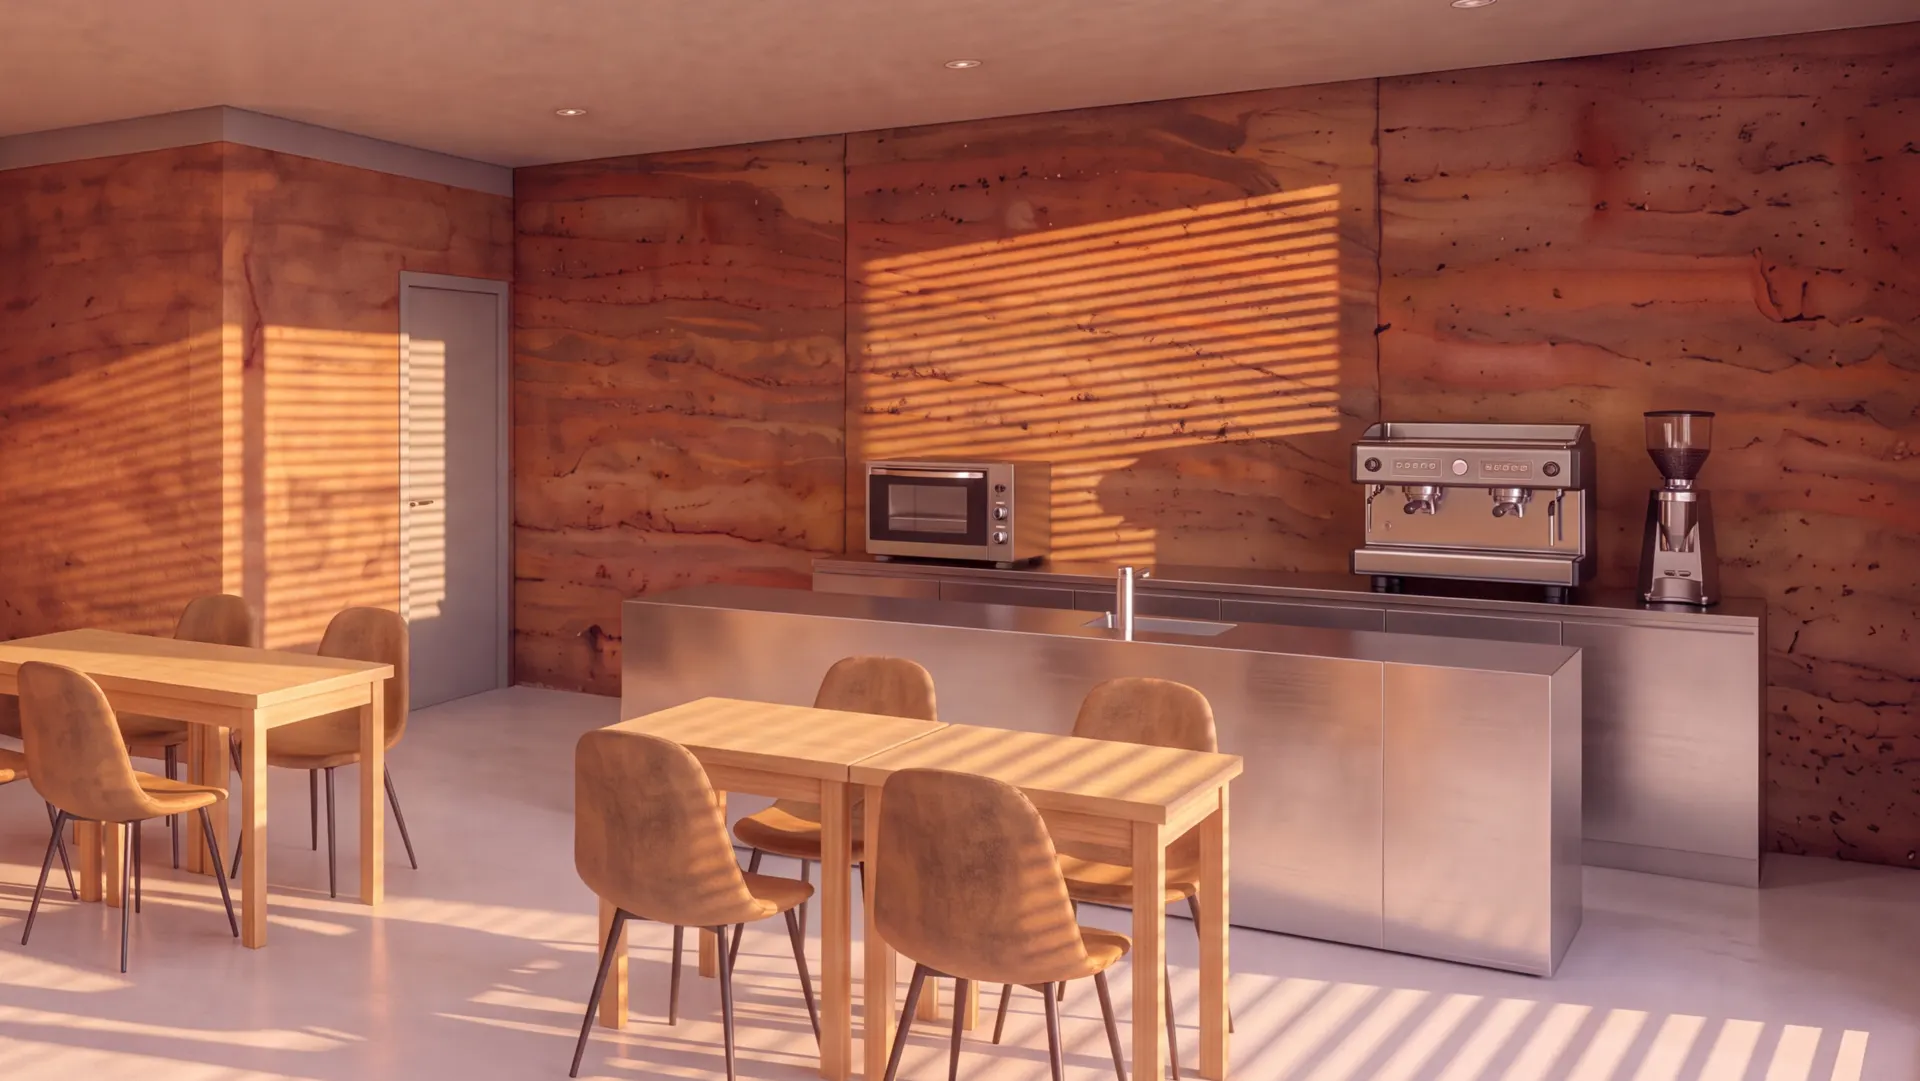
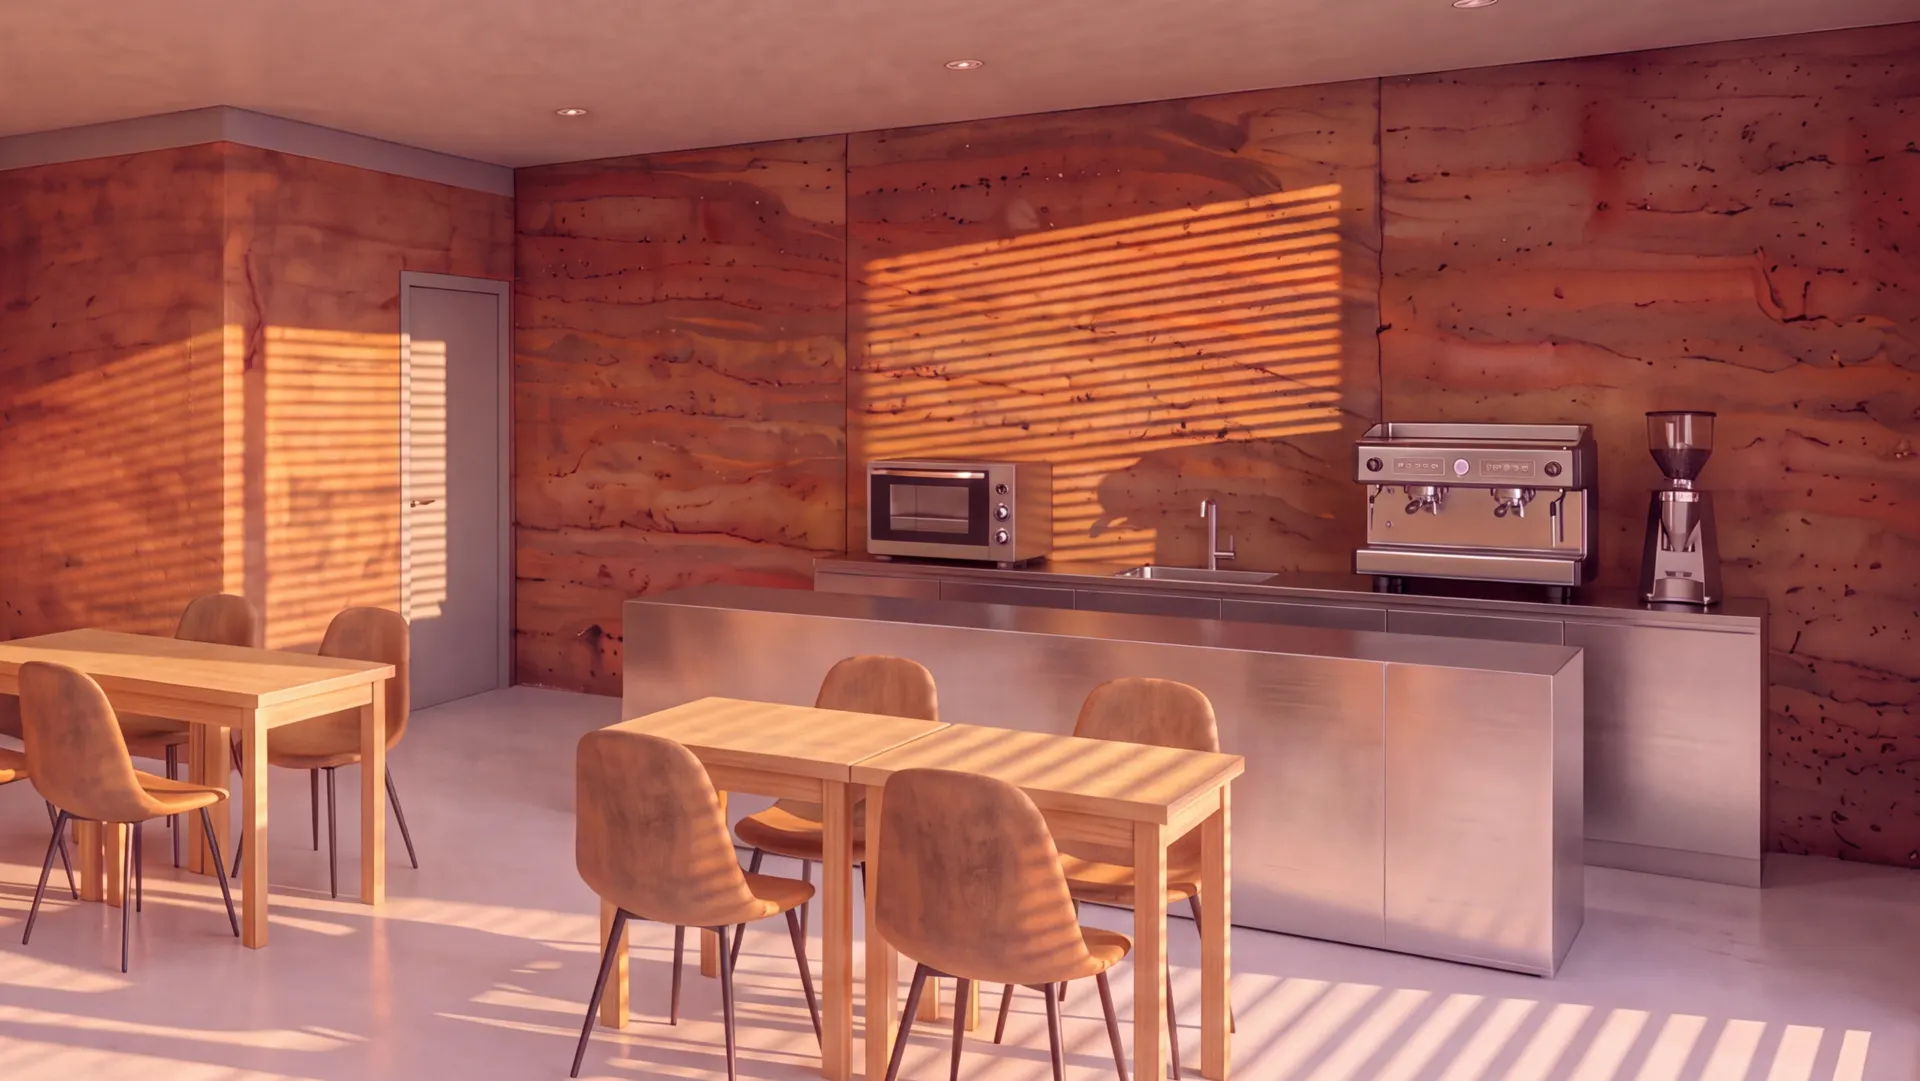
mueve la bacha a la barra de trabajo en las imágenes de /jujuy/numeros
Planta, salón y barra salen de la planta maestra nueva: la isla de acero
queda lisa y la bacha pasa a la barra de trabajo contra el muro, entre el
hornito y la máquina. El presupuesto no cambia; las imágenes son
conceptuales y así están rotuladas.

Claude-Session: https://claude.ai/code/session_019JhcunPZTMNqGrb7dRZSwa

diff --git a/src/components/numeros.tsx b/src/components/numeros.tsx
@@ -154,7 +154,7 @@ export function Numeros() {
 
       <Foto
         src="/jujuy/barra.webp"
-        alt="Concepto de la barra: isla de acero con bacha y, detrás, la barra de trabajo con hornito, máquina y molino contra el muro del fondo. Sin banquetas."
+        alt="Concepto de la barra: isla de acero y, detrás, la barra de trabajo con hornito, bacha, máquina y molino contra el muro del fondo. Sin banquetas."
         pie={`${rubro("04").titulo} · ${pesos(totalRubro(rubro("04")))}`}
       />
 
